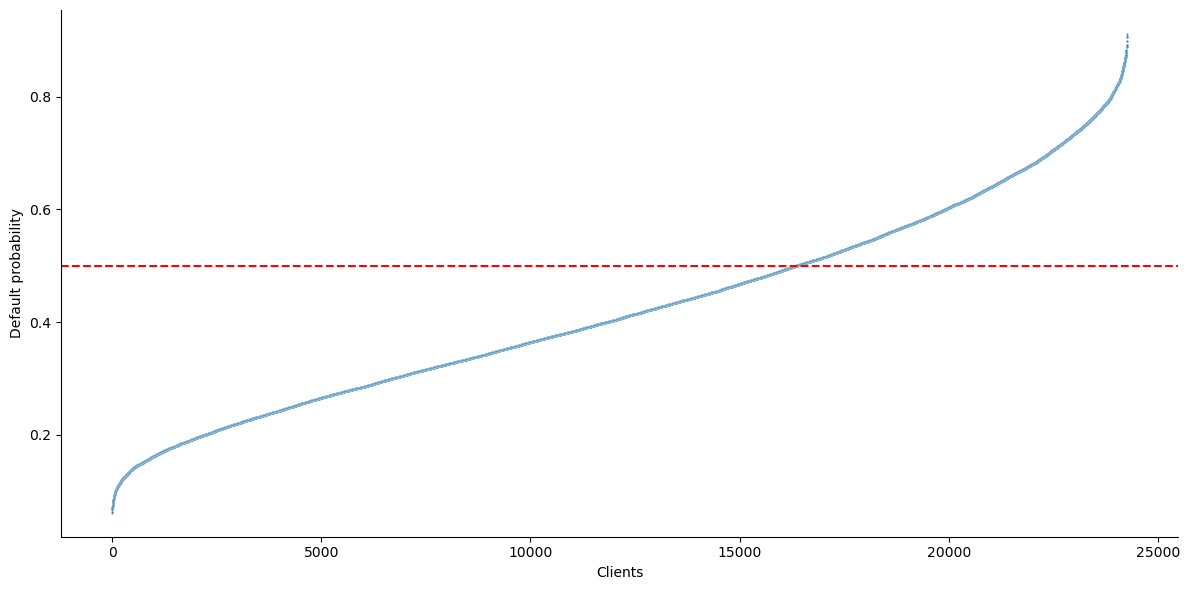
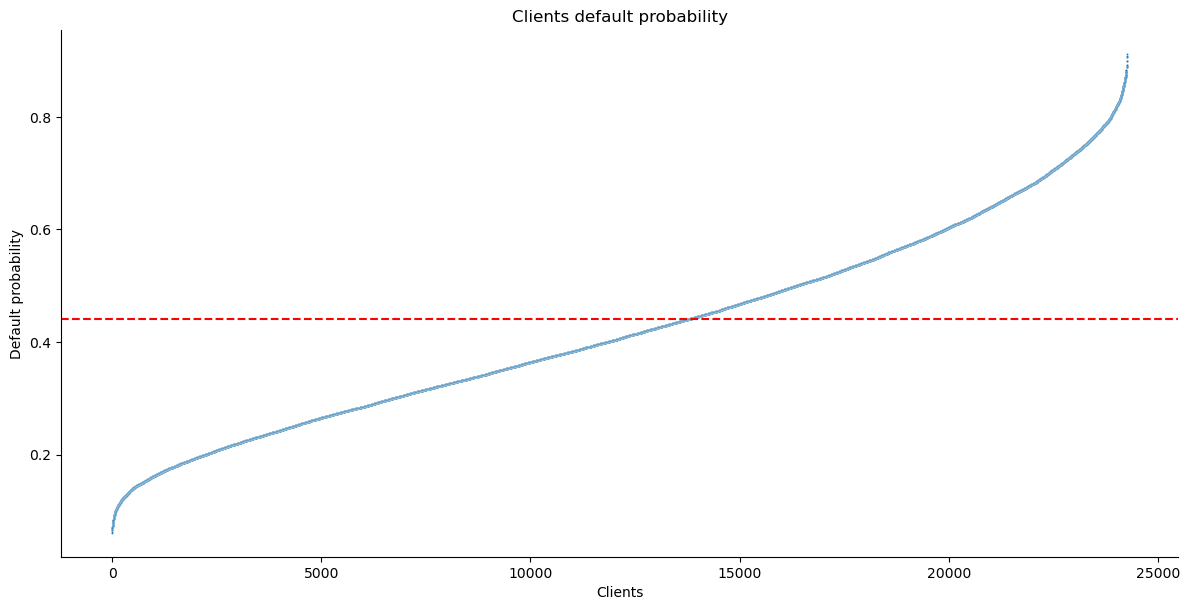
Maj 18/10

diff --git a/app.py b/app.py
@@ -105,18 +105,19 @@ btn_predict = st.sidebar.button("Predict")
 if btn_predict: 
     pred = pipeline.predict_proba(D_user_data)[0,1]
     
-    if pred > 0.5: 
-        st.error('The customer default probability is {:.2%}'.format(pred))           
+    if pred > 0.44: 
+        st.error('Refuse the loan, the customer default probability is {:.2%}'.format(pred))           
     else: 
-        st.success('The customer default probability is {:.2%}'.format(pred))
+        st.success('Accept the loan, the customer default probability is {:.2%}'.format(pred))
         
 #Model default probability
     st.subheader('Probability distribution of client defects')
     st.image("Default_probability.png")
-    st.write(""" If the probability is higher than 50%, please refuse the loan """)
+    st.write(""" If the probability is higher than 44%, please refuse the loan """)
     
 #Model predictive quality
     st.subheader("Evaluation of the model's predictive quality")
+    st.image("PR_curve.png")
     st.image("ROC_curve.png")
 
 #SHAP graph 1 : Result Interpretability - Applicant Level     
